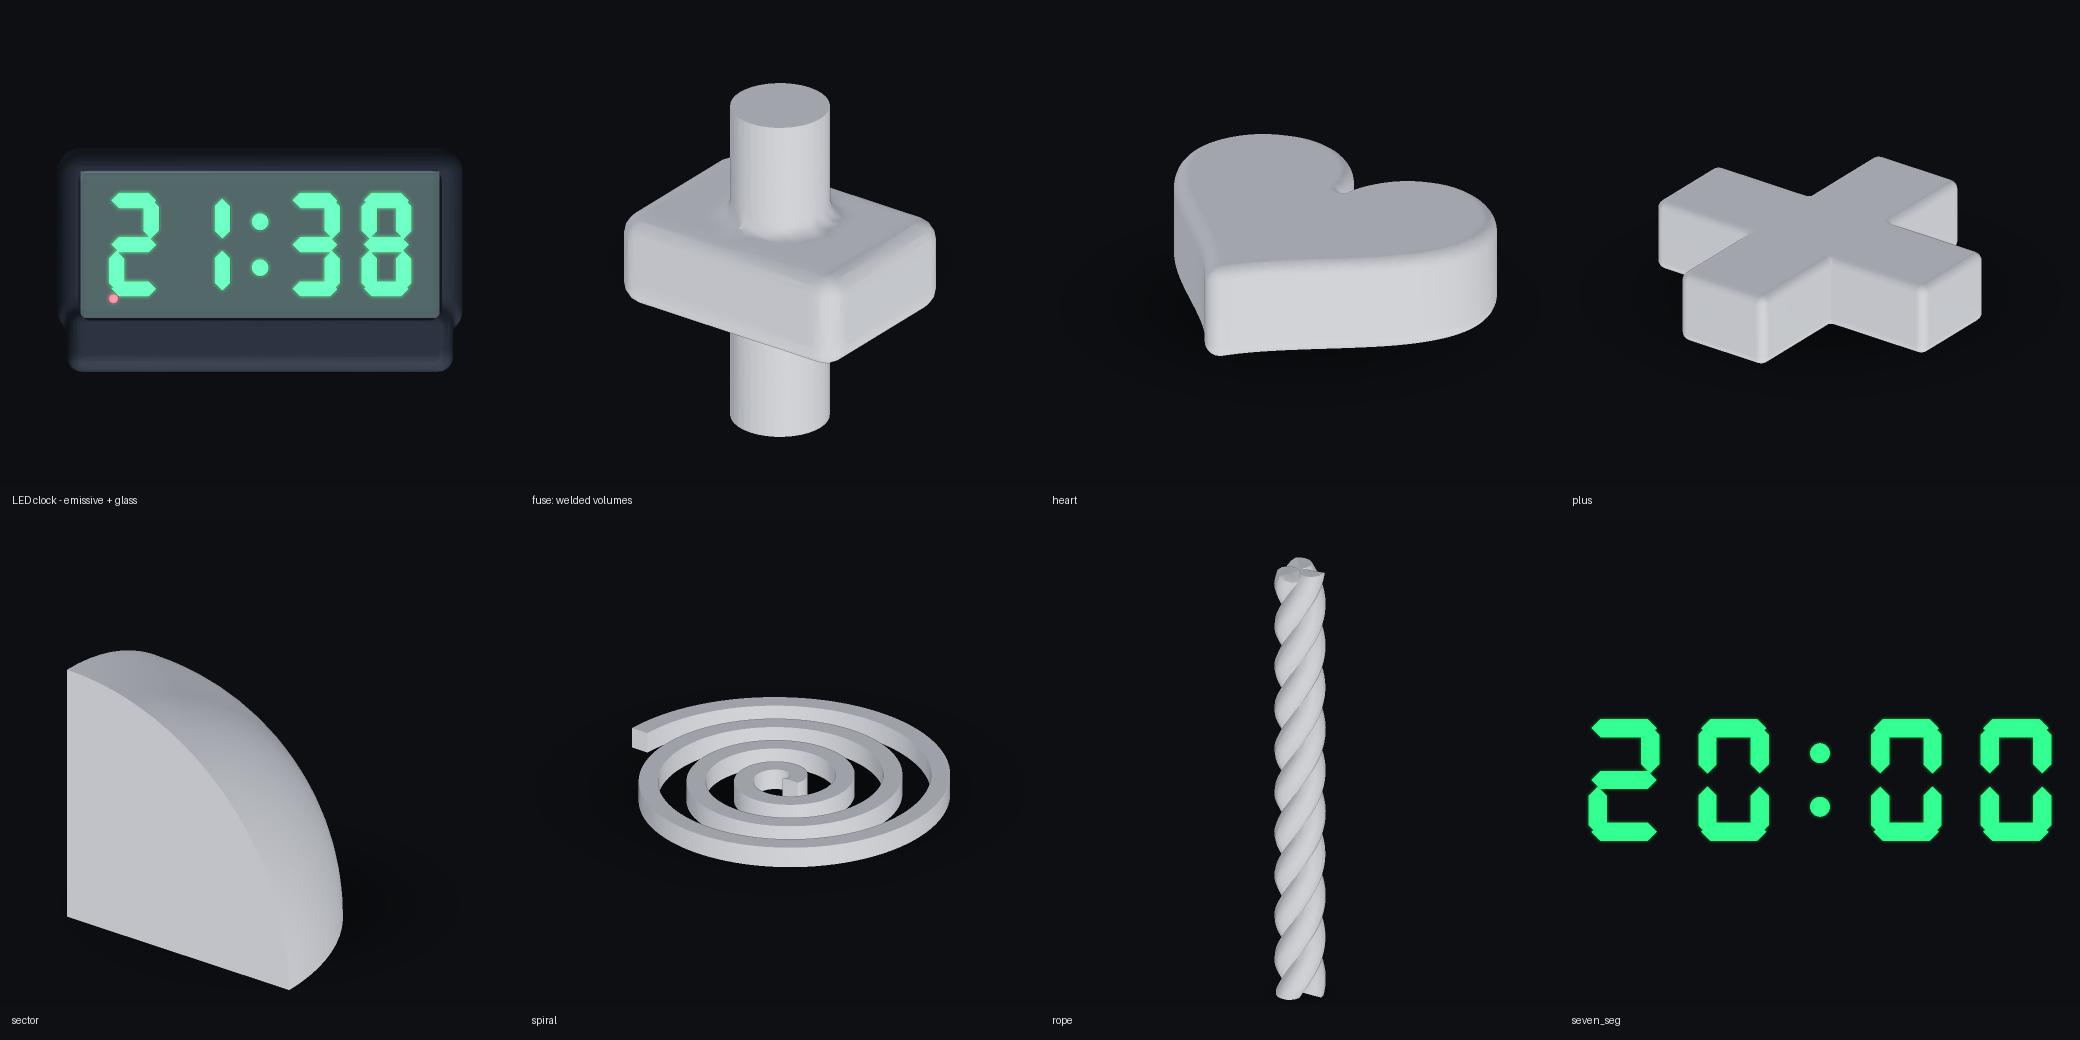
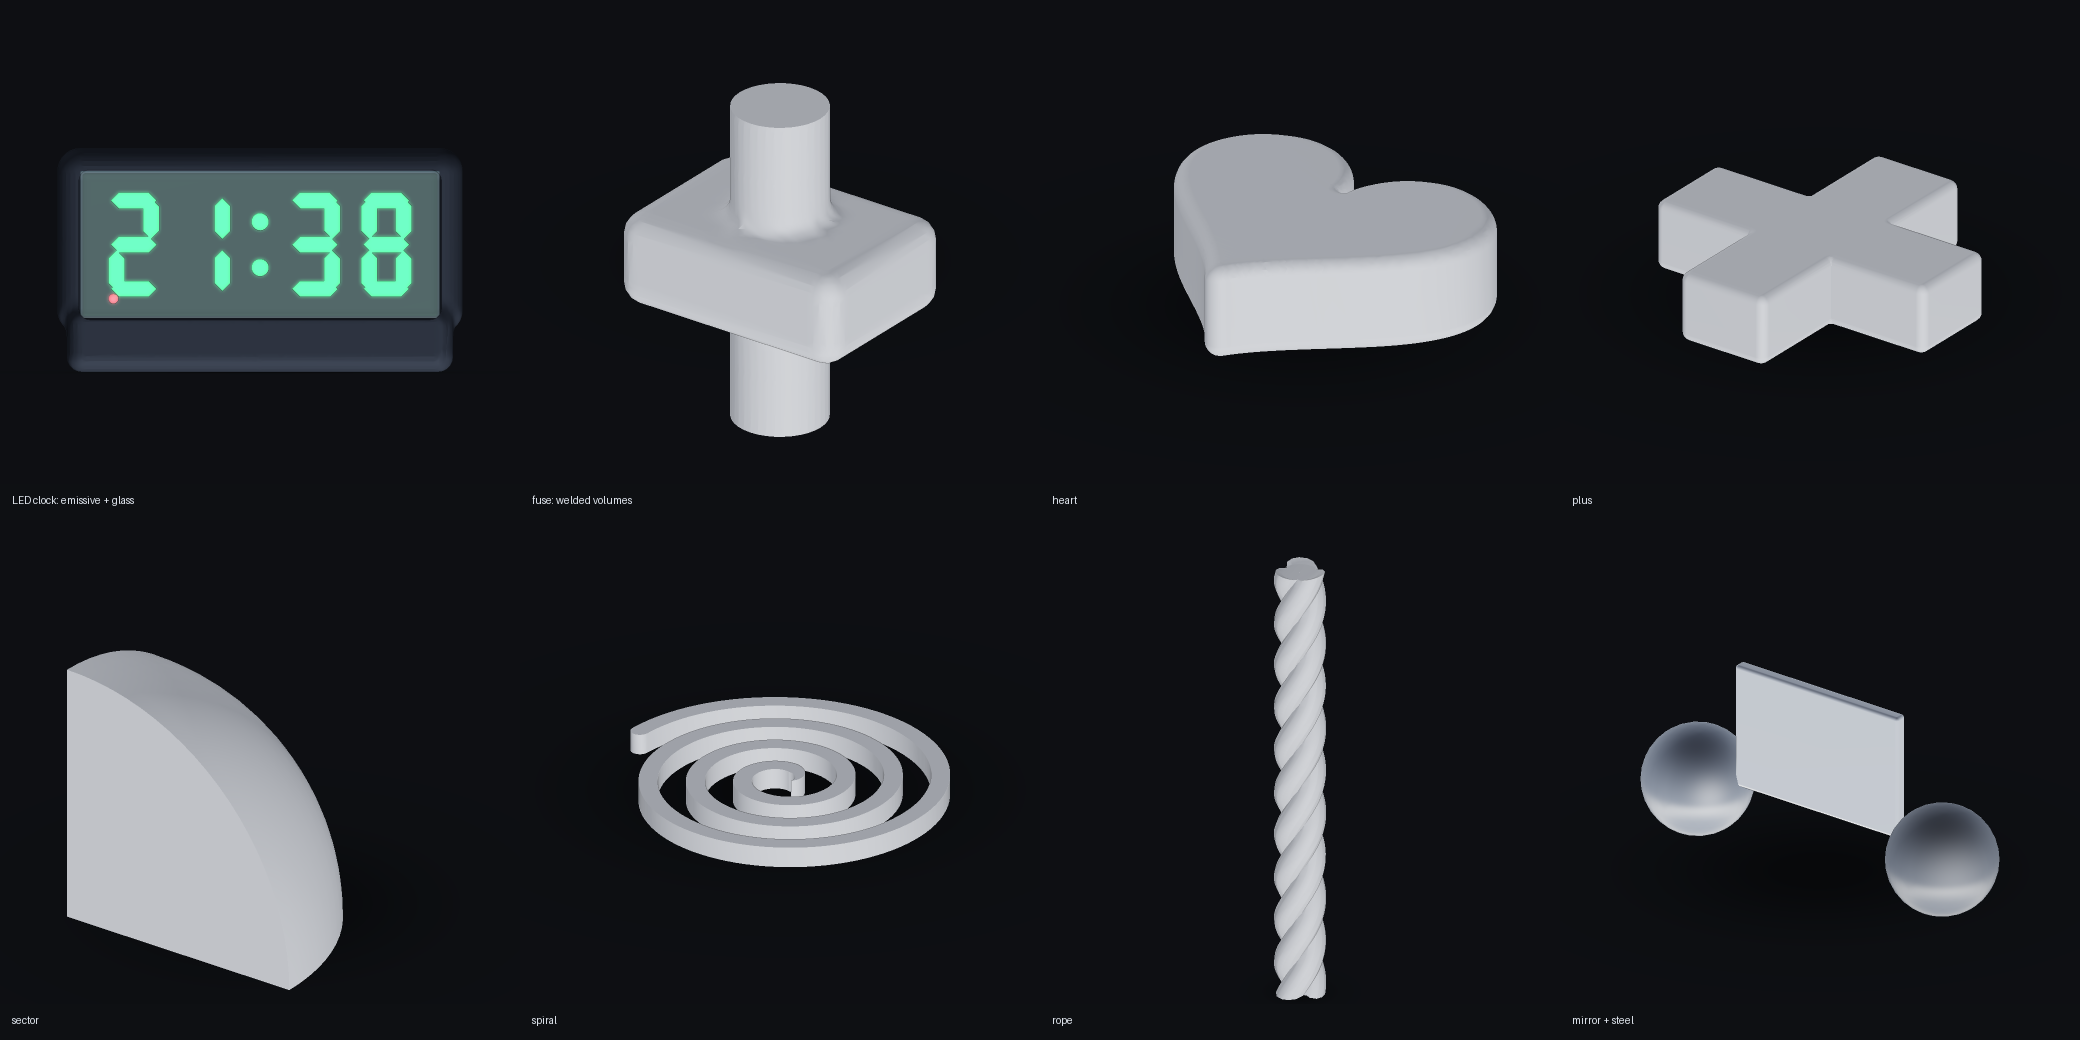
0.23: отражение металла в отчётах, опрятные концы спирали и верёвки
- металл в офлайн-рендере: убрана диффузия, добавлено отражение студии
  (пол/стена/софтбокс) — зеркало и сталь читаются как полированные
- spiral: нить сходит на нет остриём в центре, внешний конец с круглой пятой
- rope: фаска на торцах конусом вместо двойного minkowski (0.1 с вместо 20 с)

diff --git a/forma/forma/ops_shapes.py b/forma/forma/ops_shapes.py
@@ -1213,7 +1213,7 @@ def spiral(a, name):
             f"Витки спирали налезут друг на друга: шаг между витками {pitch:g} мм, "
             f"а нить с зазором {wire + max(0.0, gap):g} мм.",
             hint=f"Уменьшите wire (сейчас {wire:g}) или увеличьте radius относительно turns.")
-    r0 = max(wire / 2.0, 0.5)
+    r0 = max(wire / 2.0 + 0.5, 1.0)
     steps = int(max(seg * turns, 48))
     r_in = r0
     r_out = radius
@@ -1223,10 +1223,22 @@ def spiral(a, name):
         ang = math.radians(start) + 2 * math.pi * turns * t
         rr = r_in + (r_out - r_in) * t
         w = wire / 2.0
+        # у самого центра нить сходит на нет остриём — иначе в середине
+        # остаётся «пень» с плоским срезом, который видно при любом угле
+        taper = min(1.0, t / 0.08) if t < 0.08 else 1.0
+        w = max(0.02, w * taper)
         inner_pts.append(((rr - w) * math.cos(ang), (rr - w) * math.sin(ang)))
         outer_pts.append(((rr + w) * math.cos(ang), (rr + w) * math.sin(ang)))
-    # контур: наружная кромка туда, внутренняя обратно, плюс круглые концы
-    pts = outer_pts + inner_pts[::-1]
+    # контур: наружная кромка туда, круглая «пята» на внешнем конце,
+    # внутренняя обратно, и остриё в центре
+    ang_end = math.radians(start) + 2 * math.pi * turns
+    w_end = wire / 2.0
+    cx, cy = r_out * math.cos(ang_end), r_out * math.sin(ang_end)
+    cap = []
+    for k in range(1, 12):
+        phi = ang_end + math.pi * k / 12
+        cap.append((cx + w_end * math.cos(phi), cy + w_end * math.sin(phi)))
+    pts = outer_pts + cap + inner_pts[::-1]
     cross = _cross([(x, y) for x, y in pts])
     solid = cross.extrude(height)
     if abs(height - wire) > 1e-6 and height > 1e-6:
@@ -1287,10 +1299,23 @@ def rope(a, name):
             path.append((r_turn * math.cos(ang), r_turn * math.sin(ang), z))
         pieces.append(_tube(np.asarray(path, dtype=np.float64), wire / 2.0, segments=segments))
     solid = mf.Manifold.batch_boolean(pieces, mf.OpType.Add)
-    # торцы ровные: обрезаем по длине, иначе круглые заглушки нитей торчат
+    # Торцы: режем по длине, но не плоскостью — иначе круглые нити дают
+    # «срез» с острыми кромками. Скругляем кромку радиусом в четверть нити.
     trim = mf.Manifold.cube((diameter * 4.0, diameter * 4.0, length), True) \
         .translate((0.0, 0.0, length / 2.0))
     solid = mf.Manifold.batch_boolean([solid, trim], mf.OpType.Intersect)
+    # лёгкая фаска на торце: срезаем кромку конусом-фаской, а не двойным
+    # minkowski (он на 10 000 треугольников стоил 20 с)
+    edge = min(wire * 0.3, length * 0.1)
+    if edge > 0.3:
+        for z0, sign in ((0.0, 1.0), (length, -1.0)):
+            chamfer = mf.Manifold.cylinder(edge * 2.0, diameter * 0.5 + wire,
+                                           max(0.1, diameter * 0.5 - edge), 48, False)
+            if sign > 0:
+                chamfer = chamfer.translate((0.0, 0.0, -edge))
+            else:
+                chamfer = chamfer.rotate((180.0, 0.0, 0.0)).translate((0.0, 0.0, length + edge))
+            solid = solid - chamfer
     return make_solid(a.scene, name, _placed(a, solid), a, kind="rope")
 
 

diff --git a/forma/forma/render.py b/forma/forma/render.py
@@ -216,12 +216,29 @@ def _shade(normals, col, metal, rough, cam):
     col = np.asarray(col, dtype=np.float32)
     if col.ndim == 1:
         col = col[None, :]
-    base = col * (amb + bounce + diff + diff2 + rim)
+    # у металла диффузной составляющей почти нет: свет он отражает, а не рассеивает
+    base = col * (amb + bounce + diff + diff2 + rim) * (1.0 - 0.85 * metal)
     half = _normalize(key - f)
     spec = np.clip(n @ half, 0, None)[:, None] ** max(8, 2 / max(rough, 0.05) ** 2)
     spec_strength = 0.62 * (1 - rough) ** 2
     spec_col = col * (1 - metal) + metal * 0.9
     shade = base + spec * spec_strength * spec_col
+    if metal > 0.02:
+        # Отражение окружения: без карты окружения металл в офлайн-снимке
+        # выглядел серым пятном. Берём простое «небо над горизонтом» и
+        # отражаем его по нормали — зеркало и сталь сразу читаются как
+        # полированные, а не как матовая краска.
+        ref = 2.0 * (n @ f)[:, None] * n - f[None, :]
+        t = np.clip(ref[:, 2:3] * 0.5 + 0.5, 0, 1)
+        # «студия»: тёмный пол, светлая стена, яркая полоса-софтбокс сверху
+        ground = np.array([0.10, 0.11, 0.14], dtype=np.float32)
+        sky = np.array([0.72, 0.79, 0.92], dtype=np.float32)
+        env = ground[None, :] * (1 - t) + sky[None, :] * t
+        band = np.exp(-((ref[:, 2:3] - 0.72) ** 2) / (2 * 0.13 ** 2))
+        env = env + band * np.array([1.0, 0.96, 0.88], dtype=np.float32) * 0.7
+        # резкость отражения: гладкий металл почти как зеркало, матовый — мутный
+        k_env = metal * (1.0 - min(rough, 0.95)) ** 1.4
+        shade = shade + env * k_env * 1.15 * (0.35 + 0.65 * col)
     return _tonemap(shade)
 
 

diff --git a/forma/README.md b/forma/README.md
@@ -68,6 +68,13 @@ check кружка symmetric y
   в GLB это `KHR_materials_transmission`, в PNG-снимках — настоящее
   смешивание (сквозь стекло видно цифры), в окне — `MeshPhysicalMaterial`.
   В панели материала появились ползунки «Свечение», «Яркость», «Стекло».
+* **Металл и зеркало в PNG-отчётах.** Раньше металлическая деталь на снимке
+  была серым пятном: у офлайн-рендера не было ни окружения, ни отражений.
+  Теперь у металла убрана диффузная составляющая и добавлено отражение
+  «студии» — тёмный пол, светлая стена и полоса-софтбокс. `material=mirror`
+  (rough 0.02) даёт зеркальную поверхность, `steel`/`aluminum` — полированную
+  сталь, при `rough=0.5` — матовый алюминий. В окне это, как и раньше,
+  настоящие PBR-отражения через PMREM.
 * **`seven_seg` — семисегментный индикатор.** `seven_seg text="21:38"
   height=54` — одна команда, одно тело из светящихся штрихов. Понимает цифры,
   `:`, `.`, `-` и буквы A–F.
